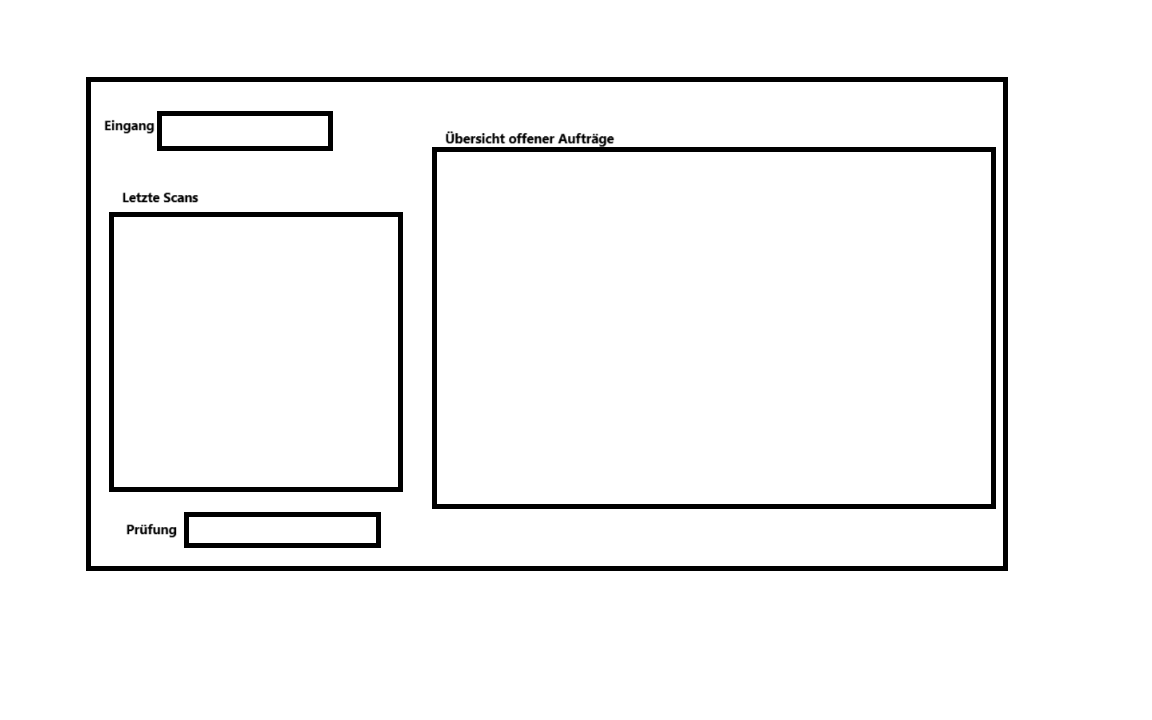
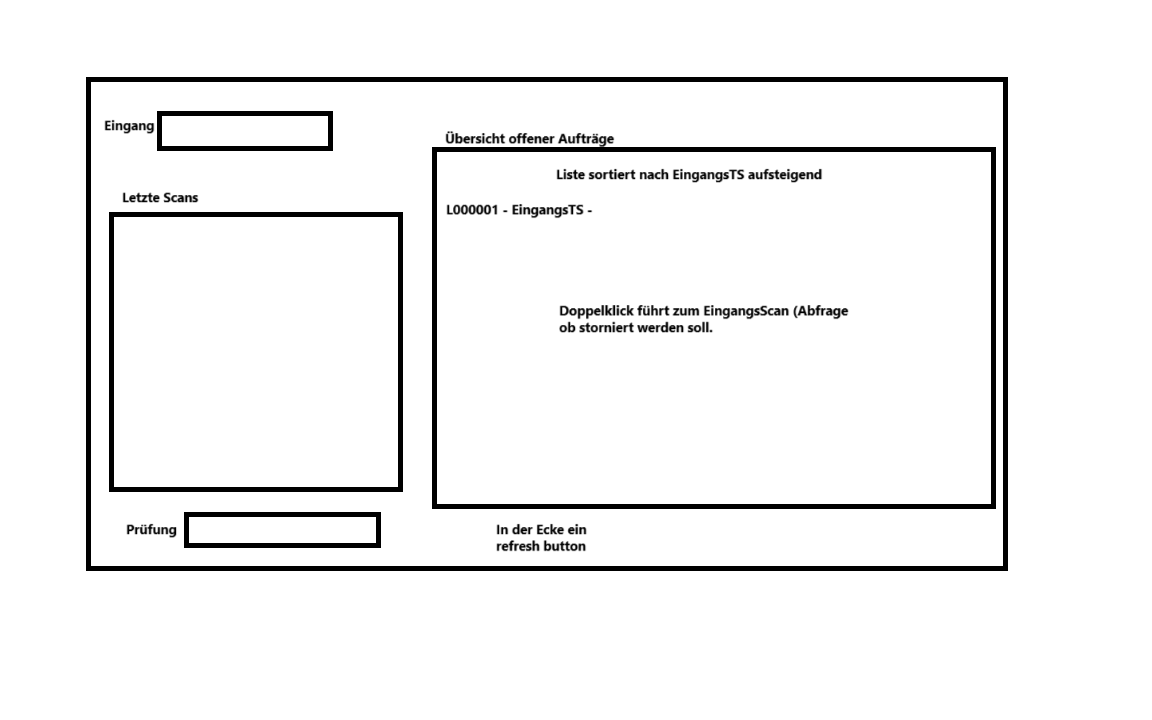
progress vom laptop

Changed region(s): [[0.375, 0.2139, 0.7188, 0.3056], [0.4688, 0.4278, 0.75, 0.4889], [0.4062, 0.7333, 0.5312, 0.7639]]

diff --git a/EingangsScan/EingangsScanUI.xaml b/EingangsScan/EingangsScanUI.xaml
@@ -24,8 +24,8 @@
             <ColumnDefinition Width="auto"/>
             <ColumnDefinition Width="20"/>
         </Grid.ColumnDefinitions>
-    
-        
+
+
 
         <StackPanel Grid.Row="1" Grid.Column="3" Grid.ColumnSpan="1" Grid.RowSpan="2">
             <Label>Nicht-Montierte Aufträge:</Label>
@@ -44,25 +44,25 @@
 
         </StackPanel>
         <StackPanel Grid.Column="3" Grid.Row="3">
-            <Button>
-                <Button Content="Aktualisieren" FontSize="12" HorizontalAlignment="Center" TabIndex="0" Height="20" Click="OffeneMontageListeLoad"/>
-            </Button>
+
+            <Button Content="Aktualisieren" FontSize="12" HorizontalAlignment="Right" VerticalAlignment="Center" MinHeight="30" MinWidth="80" TabIndex="2" Click="OffeneMontageListeLoad"/>
+
         </StackPanel>
-        
-        
+
+
         <StackPanel Grid.Row="1" Grid.Column="1" Orientation="Horizontal" HorizontalAlignment="Left" VerticalAlignment="Bottom">
             <Label>Eingang:</Label>
-            <TextBox x:Name="eingangsScanTextBox" MinWidth="150" Margin="10 0 0 0" KeyDown="EingangsScanTextBox_KeyDown" TabIndex="1"  />
+            <TextBox x:Name="eingangsScanTextBox" MinWidth="150" Margin="10 0 0 0" KeyDown="EingangsScanTextBox_KeyDown" TabIndex="0"  />
 
 
         </StackPanel>
 
         <StackPanel Grid.Row="3" Grid.Column="1" Orientation="Horizontal" HorizontalAlignment="Left" VerticalAlignment="Bottom">
             <Label>Prüfung:</Label>
-            <TextBox x:Name="KontrolleTextBox" MinWidth="150" Margin="10 0 0 0" KeyDown="KontrolleTextBox_KeyDown" TabIndex="2" />
+            <TextBox x:Name="KontrolleTextBox" MinWidth="150" Margin="10 0 0 0" KeyDown="KontrolleTextBox_KeyDown" TabIndex="1" />
         </StackPanel>
 
-        
+
 
 
         <StackPanel Grid.Row="2" Grid.Column="1"  VerticalAlignment="Center">

diff --git a/MontageScanDataAccessLib/SqlLieferschein.cs b/MontageScanDataAccessLib/SqlLieferschein.cs
@@ -65,55 +65,31 @@ public class SqlLieferschein
     }
 
 
-    private int GetLieferscheinId(string lieferschein)
+    private void GetLieferscheinId(SearchLieferschein input)
     {
         string command = "select LieferscheinId from dbo.Lieferschein where Lieferschein = @lieferschein;";
-        try
-        {
-
-            int lieferscheinID = dbAccess.LoadData<int, dynamic>(command, new { lieferschein }, _connectionString).FirstOrDefault();
-            return lieferscheinID;
-        }
-        catch (Exception)
-        {
-            return 0;
-        }
-
-    }
-    public void LieferscheinMontageScan(MontageLieferscheinModel input, int MonteurId)
-    {
-        //Get ID from dbo.Lieferschein. If not exists insert and then create new row in dbo.Montage with needed stuff
-        int lieferscheinId = GetLieferscheinId(input.Lieferschein);
-
-
-        if (lieferscheinId != null && lieferscheinId > 0) //LieferscheinID gefunden
-        {
-            WriteToMontage(MonteurId, lieferscheinId, input.MontageTS);
-        }
-        else
-        {
-            //Write Lieferschein to Lieferschein Db, get ID und write to Montage
-            SearchLieferschein temp = new SearchLieferschein { Lieferschein = input.Lieferschein, EingangsTS = DateTime.Now };
-            LieferscheinEingangsScan(temp);
-            int id = GetLieferscheinId(temp.Lieferschein);
-            WriteToMontage(MonteurId, id, input.MontageTS);
-        }
+        input.LieferscheinId = dbAccess.LoadData<int, dynamic>(command, new { input.Lieferschein }, _connectionString).FirstOrDefault();
     }
 
-    private void WriteToMontage(int mitarbeiterId, int lieferscheinId, DateTime montageTs)
+    public void LieferscheinMontageScan(SearchLieferschein input)
     {
-        string command = "insert into dbo.Montage (MitarbeiterId, LieferscheinId, MontageTS) values (@mitarbeiterId, @lieferscheinId, @montageTs);";
-        dbAccess.SaveData(command, new { mitarbeiterId, lieferscheinId, montageTs }, _connectionString);
+        if(input.LieferscheinId == null && InputLsCheck(input))
+        {
+            LieferscheinEingangsScan(input);
+            GetLieferscheinId(input);
+        }
+        string command = "insert into dbo.Montage (MitarbeiterId, LieferscheinId, MontageTS) values (@MitarbeiterId, @LieferscheinId, @MontageTS);";
+        dbAccess.SaveData(command, new { input.MitarbeiterId, input.LieferscheinId, input.MontageTS }, _connectionString);
     }
 
 
 
     public void SucheNachLieferschein(SearchLieferschein input)
     {
-        SearchLieferschein? output = new();
+
         string command = "select ls.lieferscheinId, ls.lieferschein, ls.EingangsTS, m.MontageTS, ma.MitarbeiterId ls.from Montage m inner join dbo.Mitarbeiter ma on ma.MitarbeiterId=m.MitarbeiterId right join dbo.Lieferschein ls on ls.LieferscheinId = m.LieferscheinId where ls.lieferschein = @lieferschein;";
 
-        output = dbAccess.LoadData<SearchLieferschein, dynamic>(command, new { input.Lieferschein }, _connectionString).FirstOrDefault();
+        input = dbAccess.LoadData<SearchLieferschein, dynamic>(command, new { input.Lieferschein }, _connectionString).FirstOrDefault();
 
         if (input.EingangsTS != null)
         {

diff --git a/MonteuerScan/MonteuerScanUI.xaml.cs b/MonteuerScan/MonteuerScanUI.xaml.cs
@@ -29,16 +29,16 @@ public partial class MonteuerScanUI : Window
     private SqlMitarbeiter _sqlMa;
 
     private SqlLieferschein _sqlLs;
-    private MontageLieferscheinModel _lieferscheinInput;
+    private SearchLieferschein _lieferscheinInput;
     BindingList<DisplayedModel> angezeigteLieferscheine;
     public MonteuerScanUI(string connectionString)
     {
-        
+
         _sqlMa = new SqlMitarbeiter(connectionString);
         _sqlLs = new SqlLieferschein(connectionString);
         angezeigteLieferscheine = new BindingList<DisplayedModel>();
         InitializeComponent();
-        
+
         DisplayName.Text = "Kein Mitarbeiter";
         AuftragsListe.ItemsSource = angezeigteLieferscheine;
 
@@ -62,21 +62,32 @@ public partial class MonteuerScanUI : Window
     }
 
 
+
     private void saveLieferscheinToDb(string lieferschein)
     {
-        _lieferscheinInput = new MontageLieferscheinModel(lieferschein);
-        try
+        SearchLieferschein wanted = new SearchLieferschein { Lieferschein = lieferschein };
+
+        _sqlLs.SucheNachLieferschein(wanted);
+
+        //Wenn Storniert oder bereits montiert PopUp Message
+        if (wanted.MontageTS != null)
         {
-            _sqlLs.SucheNachLieferschein(lieferschein);
-            _sqlLs.LieferscheinMontageScan(_lieferscheinInput, _loggedInMitarbeiter.MitarbeiterId);
+            MessageBox.Show($"Lieferschein: {wanted.Lieferschein} wurde bereits montiert!\n\n Dowód dostawy został już przetworzony");
         }
-        catch
+        else if (wanted.Storniert == true)
         {
-            EingangsLieferscheinModel input = new EingangsLieferscheinModel(lieferschein);
-            _sqlLs.LieferscheinEingangsScan(input);
-            _sqlLs.LieferscheinMontageScan(_lieferscheinInput, _loggedInMitarbeiter.MitarbeiterId);
+            MessageBox.Show("Stop! Lieferschein wurde storniert!\n\nZamówienie zostało anulowane! Nie montuj!");
         }
+        else if (wanted.MontageTS == null && wanted.Storniert == false) 
+        {
+            wanted.MontageTS = DateTime.Now;
+            wanted.MitarbeiterId = _loggedInMitarbeiter.MitarbeiterId;
+            _sqlLs.LieferscheinMontageScan(wanted);
+            saveLieferscheinToDisplayList();
+        }
+
     }
+
     private void saveLieferscheinToDisplayList()
     {
         angezeigteLieferscheine.Add(new DisplayedModel { Lieferschein = _lieferscheinInput.Lieferschein, Nachname = _loggedInMitarbeiter.Nachname, TimeStamp = _lieferscheinInput.MontageTS });
@@ -126,7 +137,7 @@ public partial class MonteuerScanUI : Window
                 else if (_loggedInMitarbeiter != null)
                 {
                     saveLieferscheinToDb(inputTextBox.Text);
-                    saveLieferscheinToDisplayList();
+
                     ValidinputWarning();
                 }
             }

diff --git a/EingangsScan/EingangsScanUI.xaml.cs b/EingangsScan/EingangsScanUI.xaml.cs
@@ -24,13 +24,16 @@ public partial class EingangsScanUI : Window
         InitializeComponent();
         sqlLieferschein = new SqlLieferschein(GetConnectionString("PrivateMontageScan"));
         AuftragsListe.ItemsSource = angezeigteLieferscheine;
-        OffeneMontageListe.ItemsSource= offeneMontageListe;
-        OffeneMontageListeLoad();
+        OffeneMontageListe.ItemsSource = offeneMontageListe;
 
-        FillDisplayedList();
 
-        //VOR RELEASE Ändern
-        sqlLieferschein.TemporäreFunktionDieAllesZumLieferscheinHolt("L999999");
+
+
+
+        ////VOR RELEASE Ändern
+        //OffeneMontageListeLoad();
+        //FillDisplayedList();
+        //sqlLieferschein.TemporäreFunktionDieAllesZumLieferscheinHolt("L999999");
     }
 
     private string GetConnectionString(string name)
@@ -53,6 +56,19 @@ public partial class EingangsScanUI : Window
         }
     }
 
+    private void OffeneMontageListeLoad(object sender, RoutedEventArgs e)
+    {
+        if (AuftragsListe.Items is INotifyCollectionChanged collection)
+        {
+            collection.CollectionChanged += (s, args) =>
+            {
+                if (args.Action == NotifyCollectionChangedAction.Add)
+                {
+                    AuftragsListe.ScrollIntoView(args.NewItems[0]);
+                }
+            };
+        }
+    }
     private void AuftragsListe_Loaded(object sender, RoutedEventArgs e)
     {
         if (AuftragsListe.Items is INotifyCollectionChanged collection)
@@ -91,7 +107,7 @@ public partial class EingangsScanUI : Window
                 if (LieferscheinExistsCheck(wanted) == false)
                 {
                     //ScanDenLieferscheinGanzNormal
-                    
+
                     sqlLieferschein.LieferscheinEingangsScan(wanted);
                     angezeigteLieferscheine.Add(new AktiverLieferscheinModel { Lieferschein = wanted.Lieferschein, EingangsTS = wanted.EingangsTS });
                     UiCleanUp();
